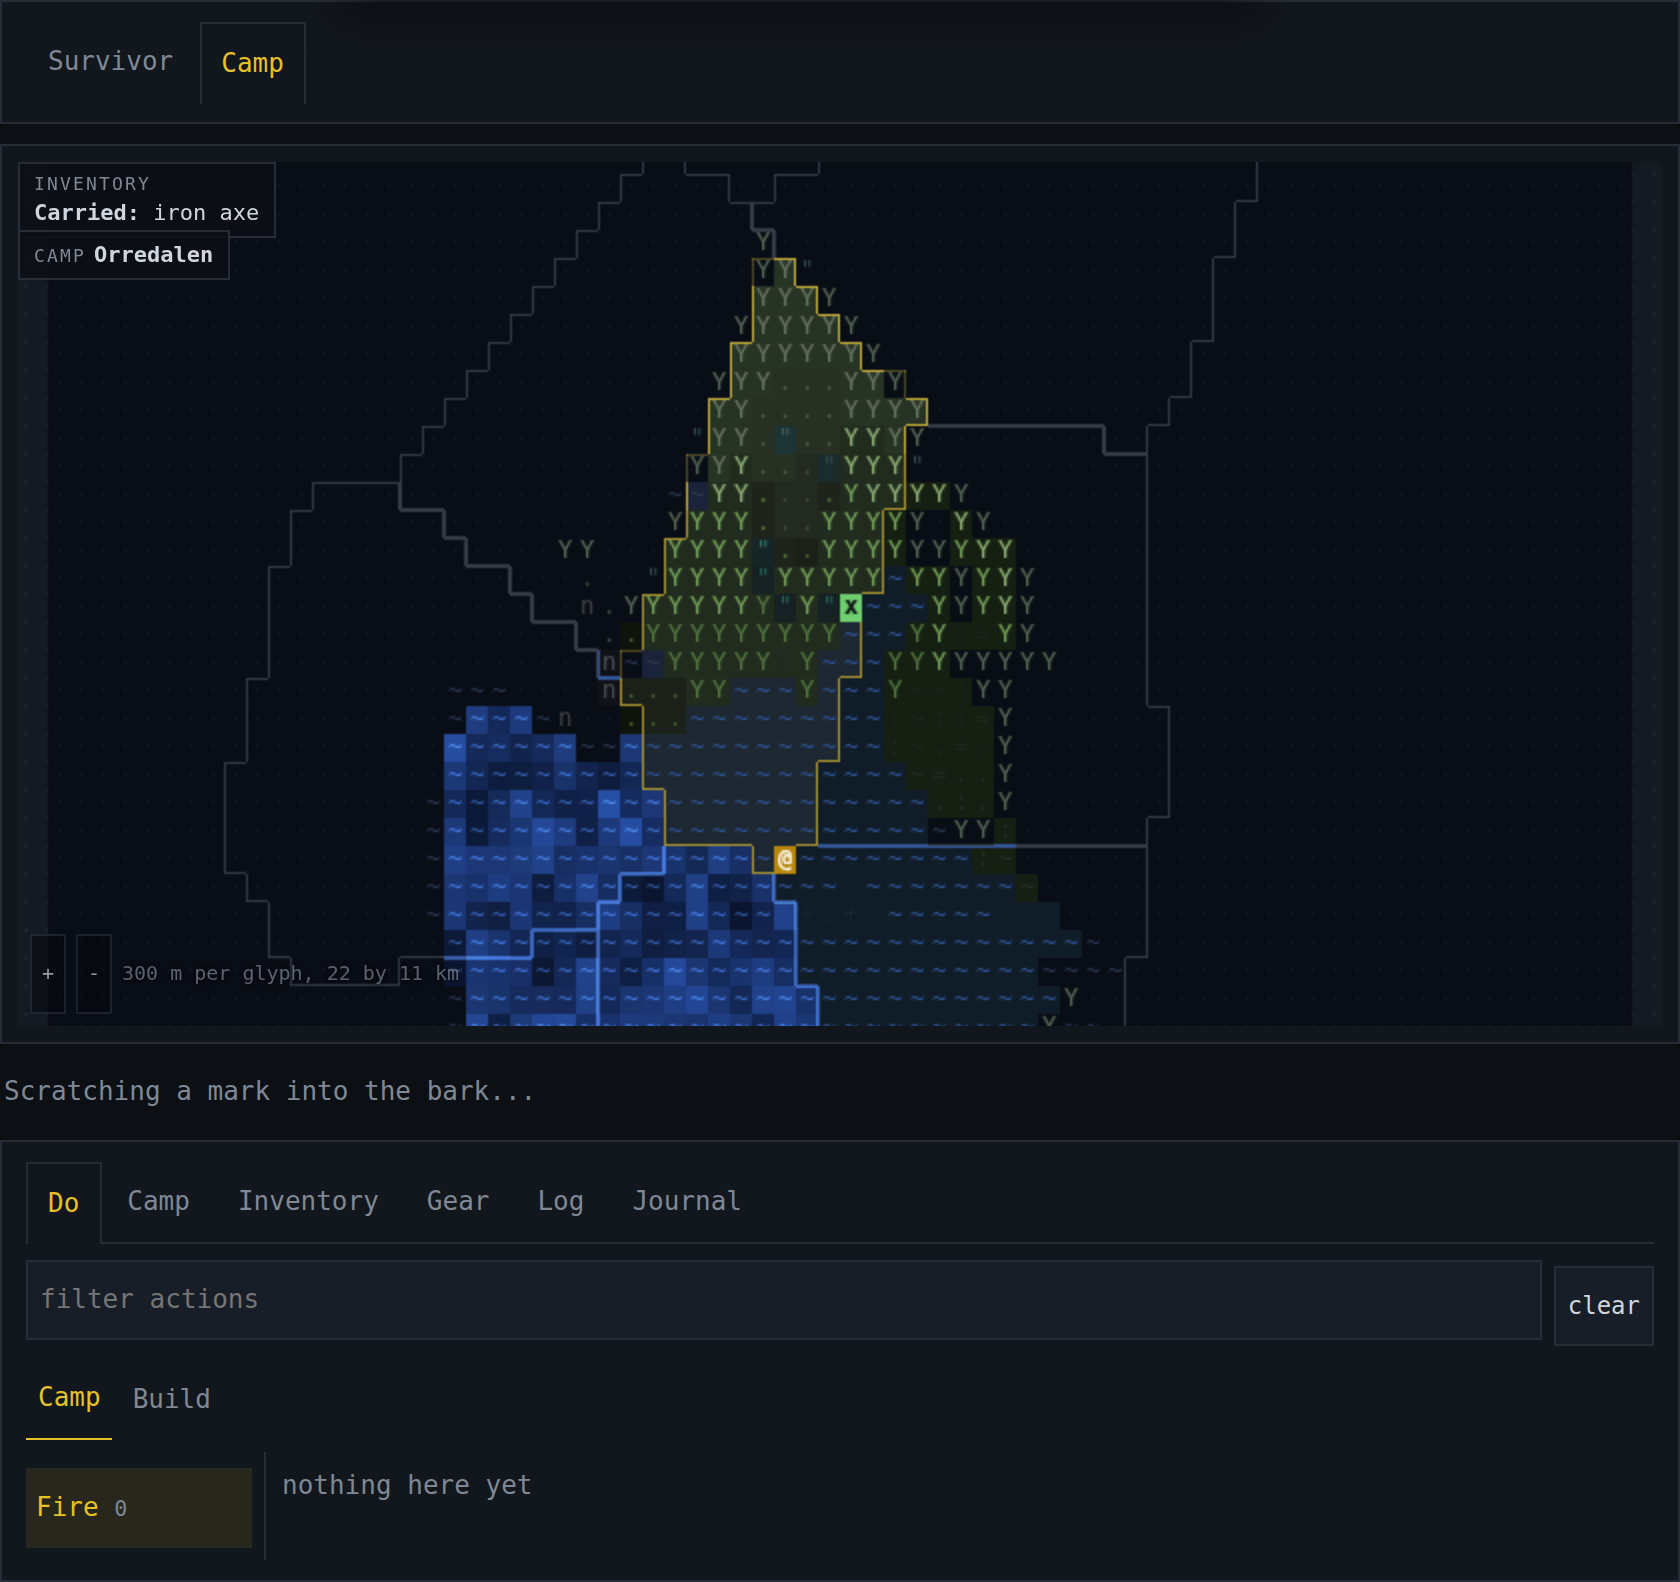
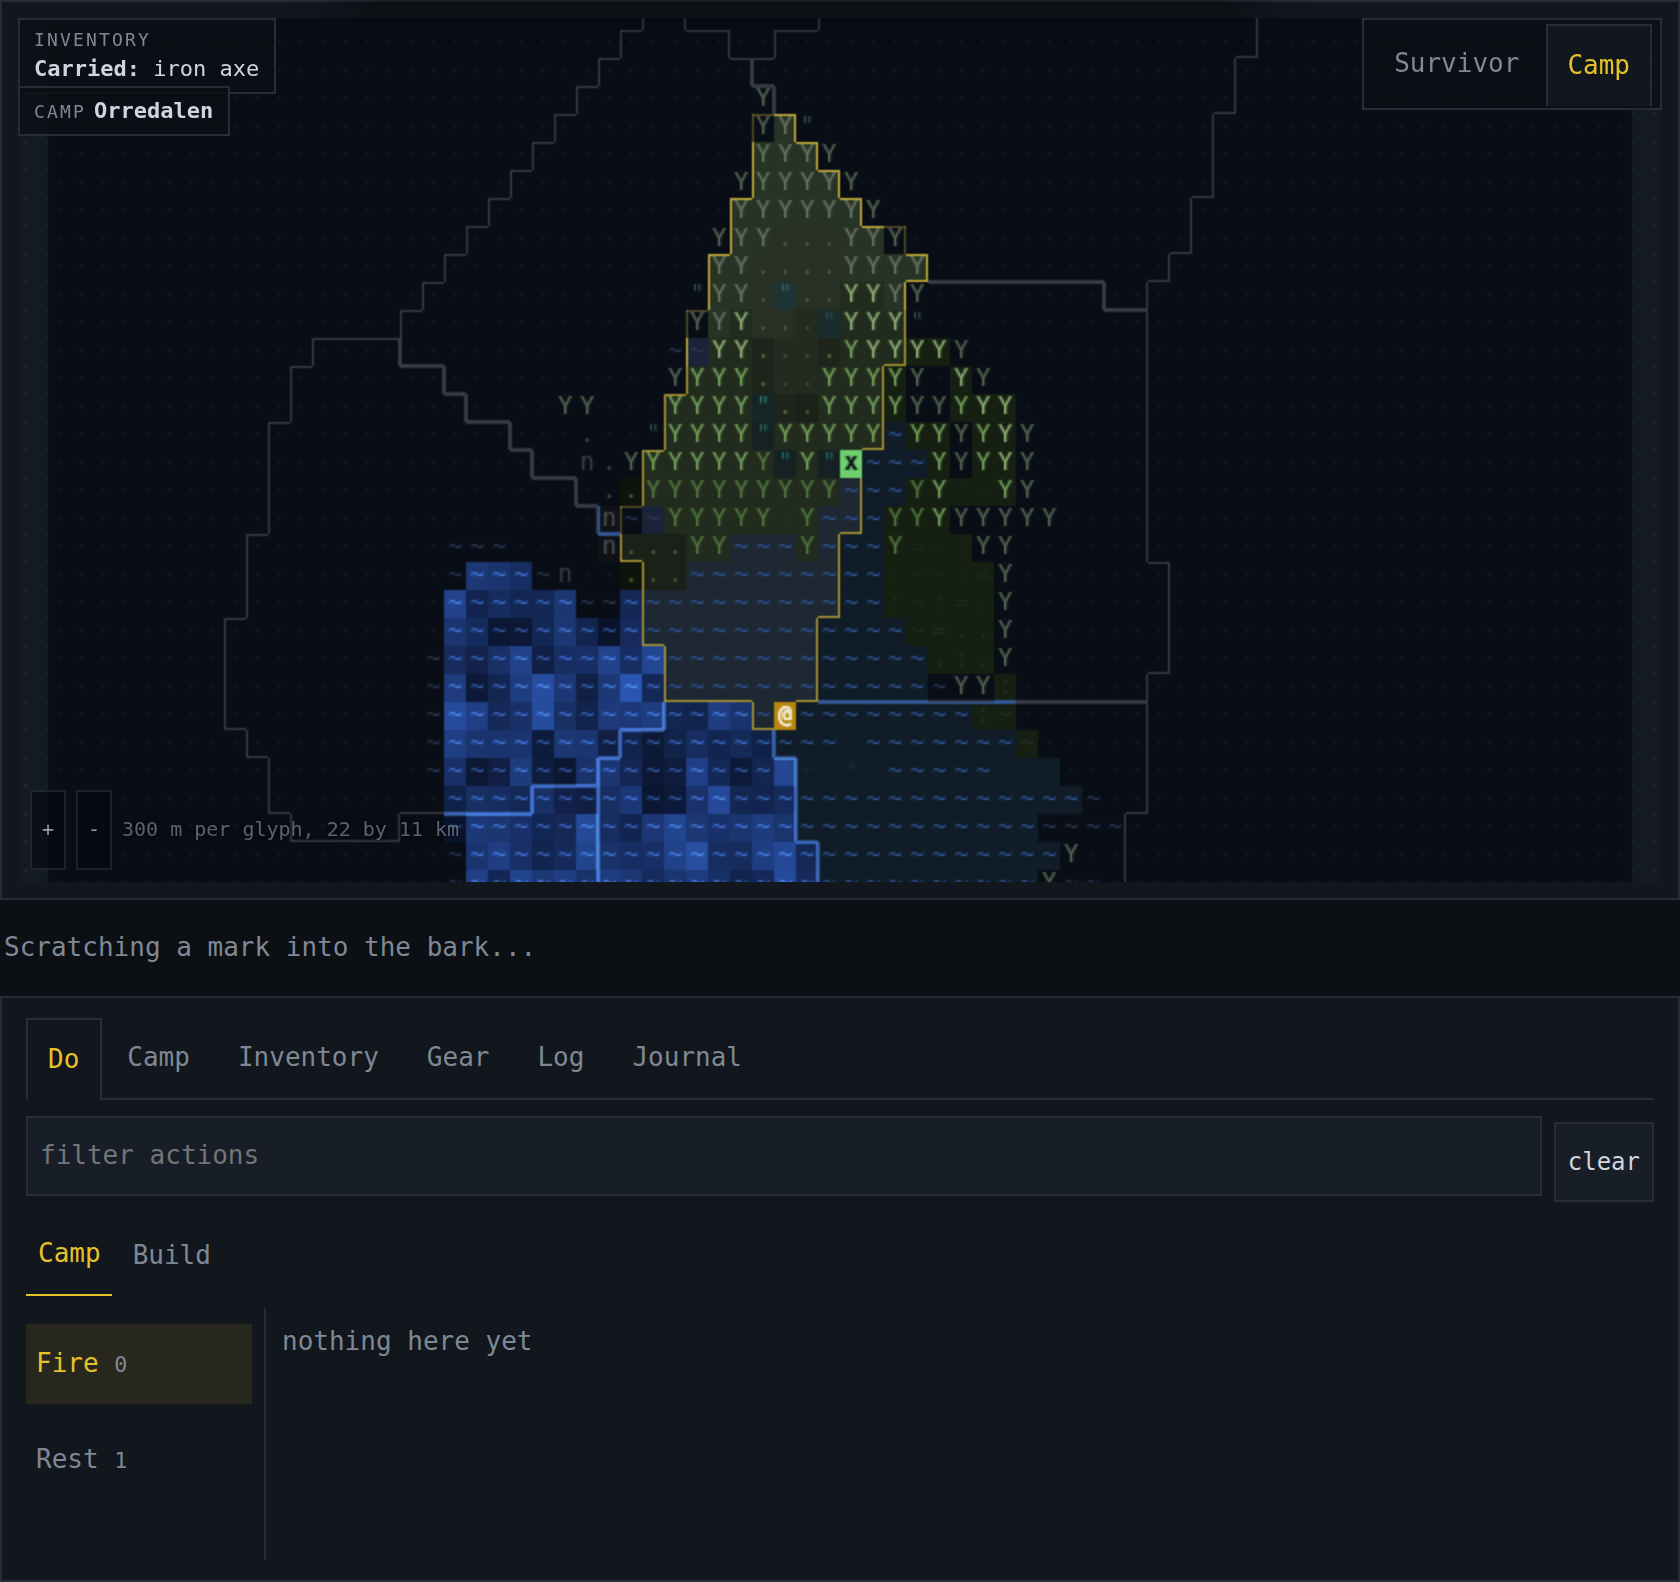
fix(survidle): the view switch is on the board, not a row above it
The switch shipped as a panel of its own at the top of the middle column,
which put a fourth band of tab-shaped things above the three the tester was
already describing (playtest 2026-09-19, note 140: "'do' tab shows diff tabs,
and each of those are subdivided... visually it seems to blur together").

It is a control on a picture, so it goes on the picture: top right of the
board, opposite the carried line, with the camp's caption under that line on
the left. The section is gone and the page is one band shorter.

Fast suite 1415 passing, build and lint clean. docs/view-shots re-taken.

Claude-Session: https://claude.ai/code/session_018hQSmQnAi9mua2n8eCnzyT

diff --git a/08-survidle/index.html b/08-survidle/index.html
@@ -48,10 +48,6 @@
         <section id="skills" class="panel"></section>
       </aside>
       <main id="center" class="col">
-        <!-- The view switch: survivor or camp. Top of the middle column
-             because it is acted on and because it governs both the board
-             under it and which end of the order list the Do pane shows. -->
-        <section id="viewswitch" class="panel viewswitch"></section>
         <section id="map" class="panel">
           <!-- The effects canvas (water shimmer, cloud shadow, weather
                motion) is mapHtml's own markup, inside .scroll-x, so it
@@ -66,6 +62,10 @@
           <!-- Which camp the board is showing, in camp view only: a caption
                on the thing it describes rather than a third tab above it. -->
           <div id="mapcamp"></div>
+          <!-- The view switch, on the board it governs rather than in a row
+               of its own above it: one less band of tab-shaped things across
+               the page (playtest 2026-09-19, note 140). -->
+          <div id="mapview"></div>
           <!-- One element, in the markup from the start, so it is shown and
                hidden rather than created and destroyed under the pointer. -->
           <div id="maptip" hidden></div>

diff --git a/08-survidle/src/style.css b/08-survidle/src/style.css
@@ -96,11 +96,20 @@ body { display: flex; flex-direction: column; height: 100vh; }
 }
 .tabs .tab.on { color: var(--accent); border-color: var(--line); background: var(--panel); margin-bottom: -1px; }
 
-/* The view switch sits above the board and reads as one line: the two
-   views, then which camp the camp view is looking at. Its own tab row has
-   no bottom rule - the panel under it is the board, not a pane body. */
-.viewswitch { display: flex; align-items: baseline; gap: 10px; flex-wrap: wrap; padding: 4px 8px; }
-.viewswitch .tabs { border-bottom: none; margin-bottom: 0; }
+/* The view switch lives on the board it governs, opposite the carried line,
+   so the page carries one band of tabs fewer. Its own row has no bottom rule
+   and no bottom margin: it is a control on a picture, not a pane header. */
+#mapview {
+  position: absolute;
+  z-index: 4;
+  top: var(--map-overlay-inset);
+  right: var(--map-overlay-inset);
+  background: rgba(12, 15, 20, 0.82);
+  border: 1px solid var(--line);
+  padding: 2px 4px;
+}
+#mapview .tabs { border-bottom: none; margin-bottom: 0; }
+#mapview .tab { padding: 2px 10px; }
 
 .subs { display: flex; gap: 4px; flex-wrap: wrap; margin: 4px 0 6px; }
 .subs:empty { display: none; }

diff --git a/08-survidle/src/main.ts b/08-survidle/src/main.ts
@@ -646,6 +646,7 @@ function render(nowMs = performance.now()) {
   setPanel("camp", campHtml(state, world, cal, ui.rateDisplay));
   setPanel("mapinventory", mapInventoryHtml(state, world, cal, ui.hover));
   setPanel("mapcamp", campViewHtml(state, world, ui.view, ui.campView));
+  setPanel("mapview", viewSwitchHtml(ui.view));
   setPanel("gear", gearHtml(state, world, cal, feltTemperature(state, world, ambient)));
   setPanel("skills", skillsHtml(state));
   setPanel("opportunities", opportunityPanelHtml(state));
@@ -673,7 +674,7 @@ function render(nowMs = performance.now()) {
   setPanel("task", taskHtml(state, world, cal, ui.hurry));
   setPanel("orders", queueHtml(state, world, cal));
   setPanel("forecast", forecastHtml(forecaster.view(), state));
-  setPanel("viewswitch", viewSwitchHtml(ui.view));
+  
   setPanel("panetabs", paneTabsHtml(ui.panes));
   settlePanes();
   setPanel("dosubs", ui.filter.trim() ? "" : subtabsHtml(ui.panes, subtabCounts(state, world, ui)));

diff --git a/08-survidle/docs/view-shots/README.md b/08-survidle/docs/view-shots/README.md
@@ -23,11 +23,17 @@ The same save, one click later. The board is held on the camp - the green `x`
 in the middle - while the survivor stands at the bottom edge of it, and the
 Do pane now offers Camp and Build.
 
-Which camp is being shown is captioned on the board, under the carried line.
-It began beside the two buttons and read as a third tab, which is the
-tester's "visually it seems to blur together" (playtest 2026-09-19, note 140)
-earned in a single change. The switch is two buttons; the caption belongs on
-the thing it describes.
+Both the switch and the camp's name are on the board. The switch sits top
+right, opposite the carried line; which camp is being shown is captioned top
+left, under it.
+
+Neither started there. The switch was a row of its own above the map and the
+camp's name sat beside its buttons, where it read as a third tab - the
+tester's "ui is confusing... visually it seems to blur together" (playtest
+2026-09-19, note 140) earned back in one change, on the row above the three
+levels he was already describing. A control belongs on the picture it
+governs, and a caption on the thing it names; the page carries one band of
+tab-shaped things fewer for it.
 
 **What this shot also shows, and it is a finding rather than a defect.** The
 pane reads "Fire 0 / nothing here yet". Camp view offers camp work, but most
